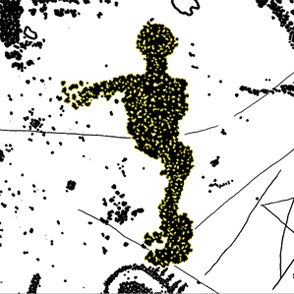
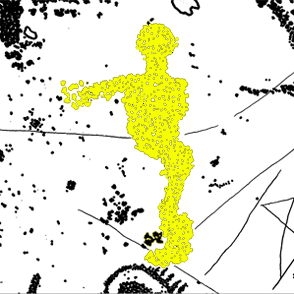
added changelogs to infobox new graphics for full selection

Changed region(s): [[0.1837, 0.0612, 0.6735, 0.9184]]

diff --git a/infobox_inc.php b/infobox_inc.php
@@ -75,6 +75,11 @@
 				<p><b><i>Right-click and drag</i></b>, to move the canvas around, as long as the selection was not started.</p>
 				<p><b><i>ESC</i></b> to cancel the tool.</p>
 				</li>
+				
+				<li><img src="./img/selection_option_filiforms.png" />
+				<b>Filiform selection option</b>
+				<p>Check this box before the color selection in any of the three tools above to use a different sensitivity of the tool. This is especially helpful for the selection of small lines (filiforms).</p>
+				</li>
 				</ul>
 				
 			<h2 id="classify"><li>Classify figure:</li></h2>
@@ -143,6 +148,15 @@
 				</p>
 				
 			<h2 id="changelog">ChangeLog</h2>
+				<p>
+				<p><b>v1.3b</b></p>
+				<p><ul>
+				<li>Some more changes to selection tools due to problems with selections</li>
+				<li>Added filiform selection option for better selection of small lines</li>
+				<li>Some improvements to drawing full selection during zooming</li>
+				<li>Added statistics of already annotated figures</li>				
+				</ul></p>
+				
 				<p>
 				<p><b>v1.2b</b></p>
 				<p><ul>
